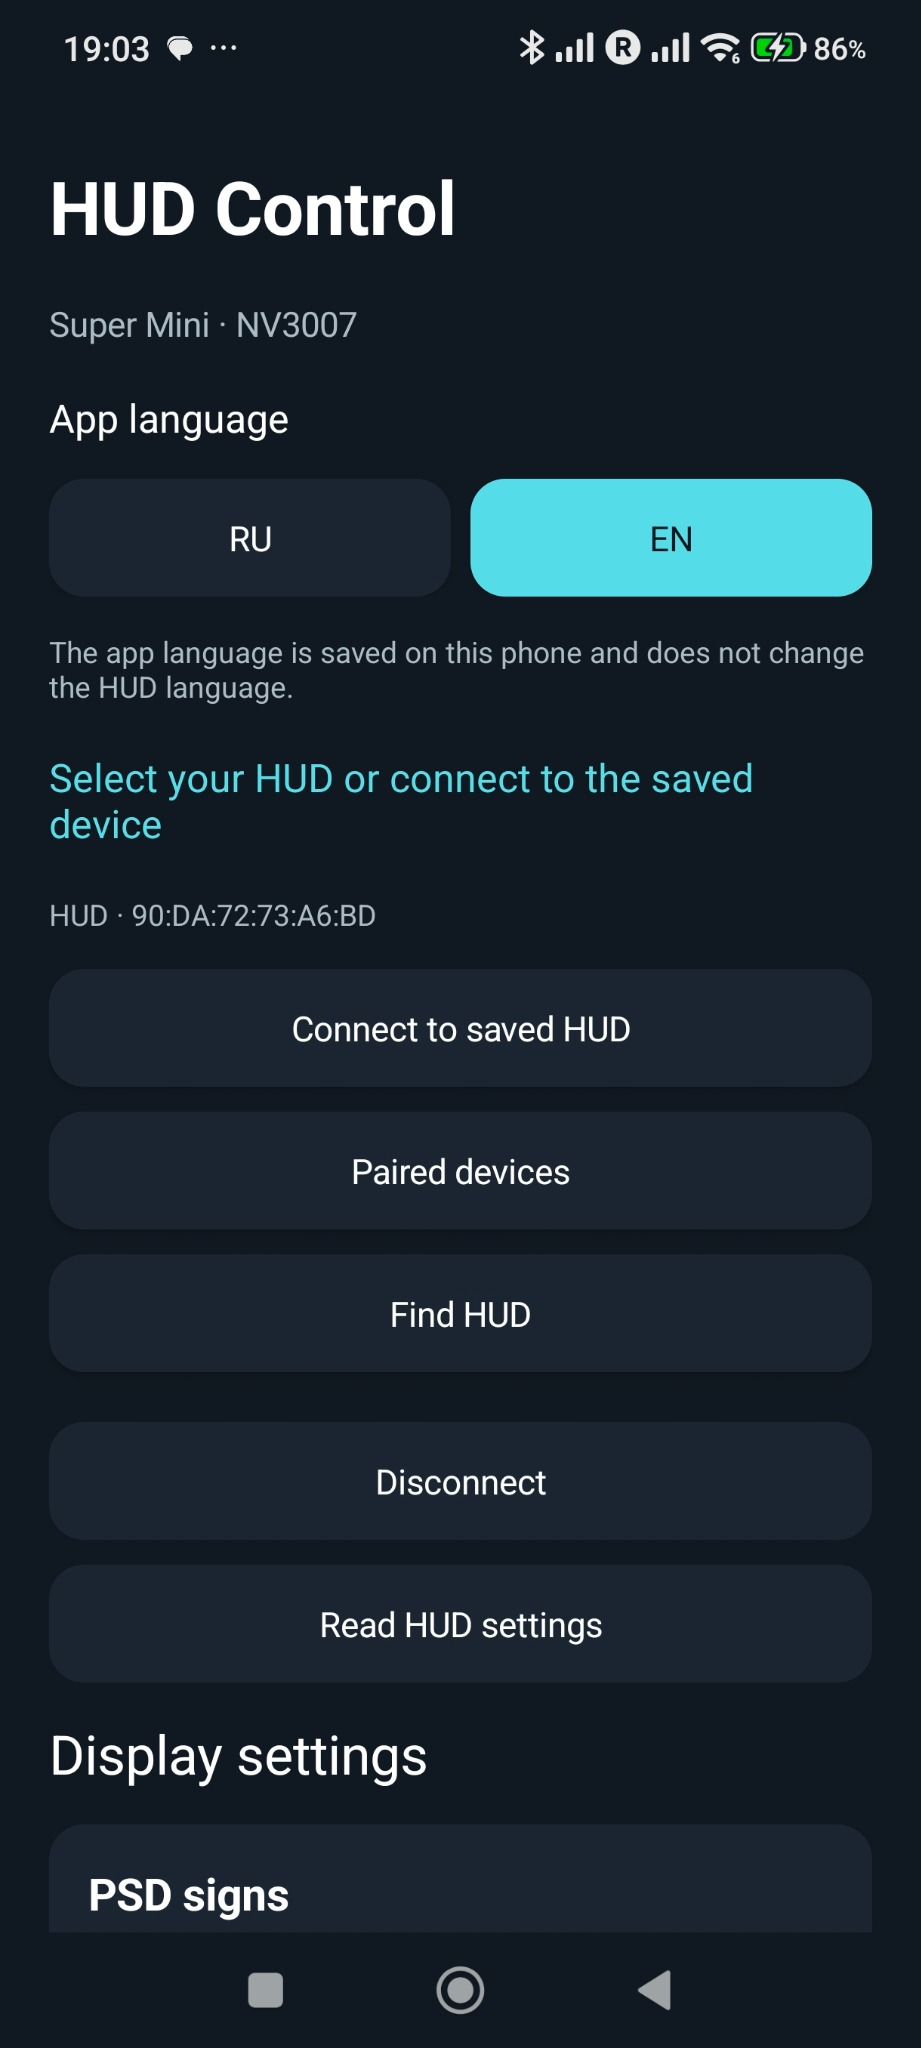
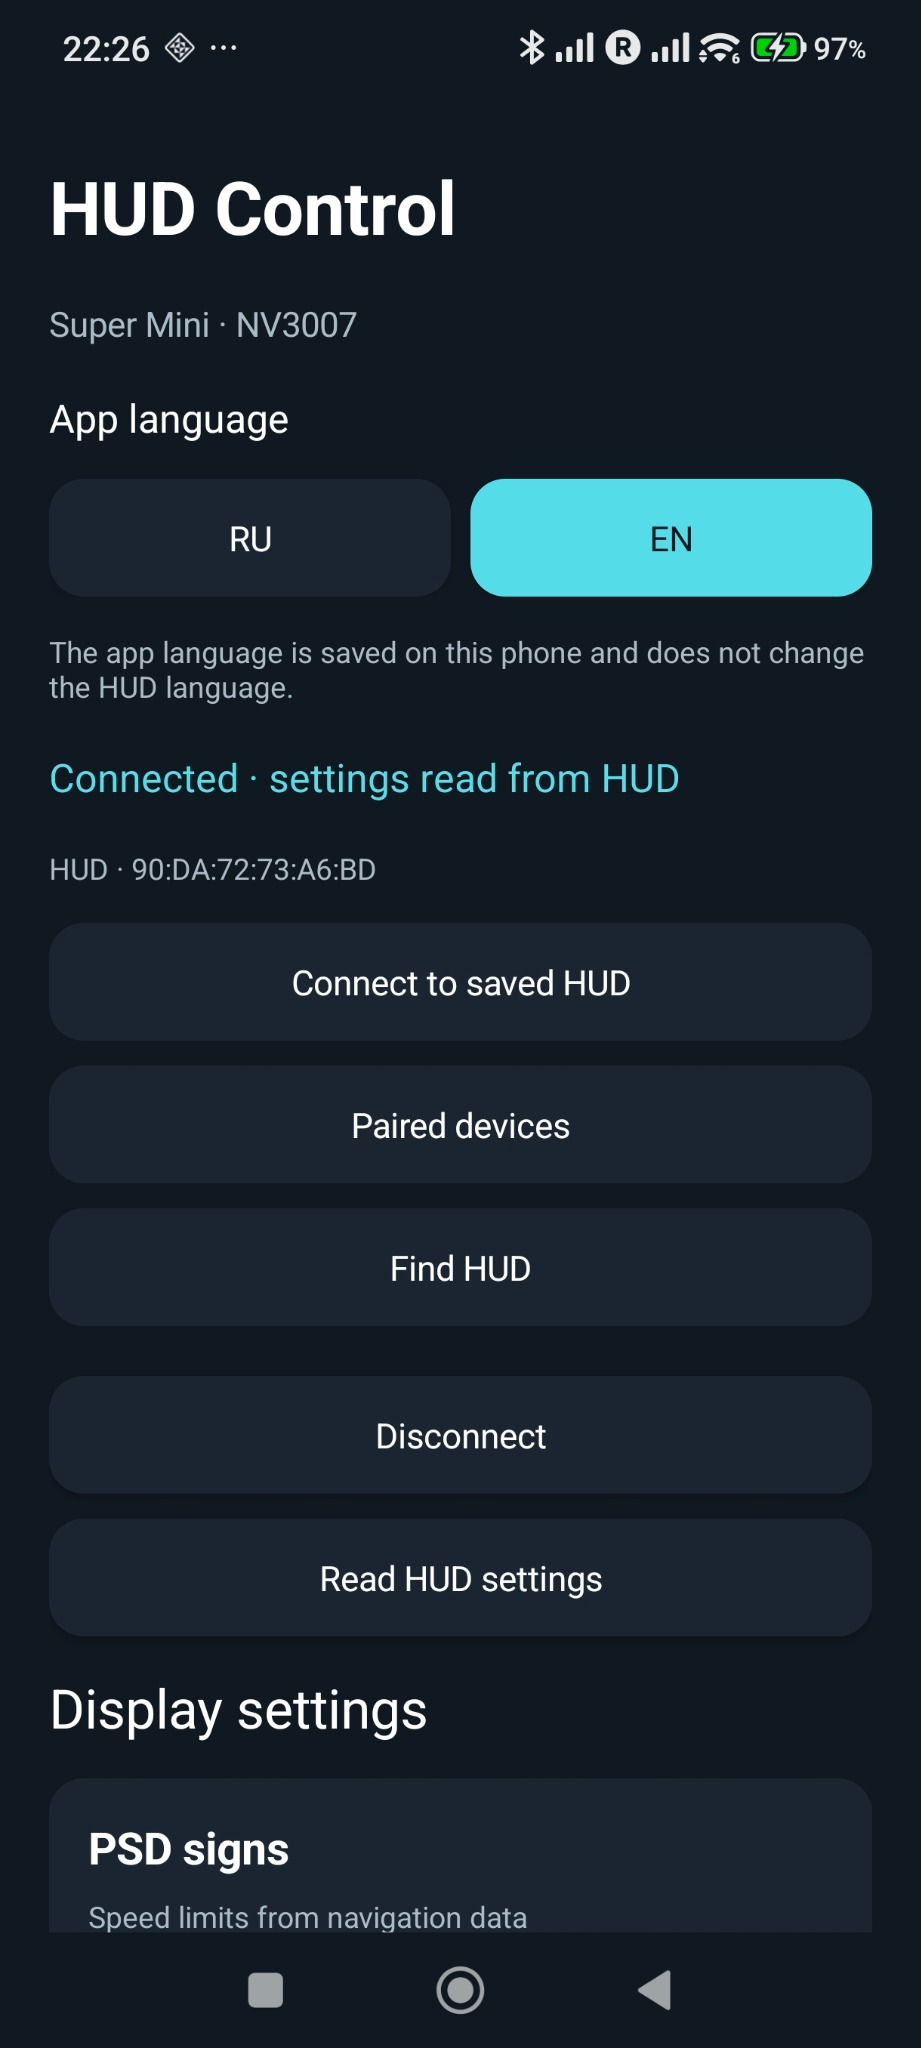
docs: refresh RU/EN screenshots and link Android 1.3 and firmware 29.1 builds

diff --git a/README_ru.md b/README_ru.md
@@ -15,34 +15,34 @@
 - **Толерантность превышения:** **0–100 км/ч**, по умолчанию **20 км/ч**; всегда вводится в км/ч, даже при отображении mph. Красная обводка проявляется от 75% допуска и полностью красная на 100%; при нуле — сразу при превышении.
 - Все три настройки подтверждаются чтением BLE и сохраняются в NVS HUD. Прежние настройки, владелец телефона и ключи шлюза сохраняются. Сброс привязки телефона кнопкой BOOT тоже сохраняет эти значения.
 
-Для новых настроек нужны **приложение 1.3 + прошивка v29.1**. Приложение 1.3 работает и со старой прошивкой: отсутствующие настройки отключены. APK из релиза v1.2 не содержит новых функций; приложение 1.3 нужно пересобрать. Здесь новые бинарники не собирались. Если уже установлена v29.0 с OTA-разделами, v29.1 использует ту же разметку; для более ранних прошивок сначала нужен переход через USB по инструкции ниже.
+Для новых настроек нужны **приложение 1.3 + прошивка v29.1**. Приложение 1.3 работает и со старой прошивкой: отсутствующие настройки отключены. Готовые APK 1.3 и app-BIN v29.1 от WARMW00D опубликованы в Releases; целостность проверена. Если уже установлена v29.0 с OTA-разделами, v29.1 использует ту же разметку; для более ранних прошивок сначала нужен переход через USB по инструкции ниже.
 
 ## Скриншоты приложения
 
-Скриншоты от WARMW00D: показана английская версия интерфейса.
+Скриншоты приложения 1.3 от WARMW00D: русский интерфейс.
 
 <table>
-  <tr>
-    <th>Подключение</th>
-    <th>Настройки дисплея</th>
-    <th>Обновление прошивки</th>
-  </tr>
-  <tr>
-    <td><img src="docs/images/app-connection-en.jpg" alt="HUD Control: выбор языка и подключение BLE" width="280"></td>
-    <td><img src="docs/images/app-settings-en.jpg" alt="HUD Control: PSD, VZE, язык HUD и единицы" width="280"></td>
-    <td><img src="docs/images/app-ota-en.jpg" alt="HUD Control: обновление прошивки по BLE OTA" width="280"></td>
-  </tr>
+  <tr><th>Подключение</th><th>Настройки дисплея</th></tr>
+  <tr><td><img src="docs/images/app-connection-ru.jpg" alt="Подключение" width="280"></td><td><img src="docs/images/app-settings-ru.jpg" alt="Настройки дисплея" width="280"></td></tr>
+  <tr><th>Бак, ускорение, толерантность</th><th>Обновление прошивки</th></tr>
+  <tr><td><img src="docs/images/app-controls-ru.jpg" alt="Бак, ускорение, толерантность" width="280"></td><td><img src="docs/images/app-ota-ru.jpg" alt="Обновление прошивки" width="280"></td></tr>
 </table>
+
+## Скачать прошивку BIN
+
+[Релиз v29.1](https://github.com/WARMW00D/HUD-Audi-A4-B9-MLB-Evo-ESP32-S3-SuperMini-LCD-2.79-NV3007-BLE/releases/tag/v29.1) · [App-BIN](https://github.com/WARMW00D/HUD-Audi-A4-B9-MLB-Evo-ESP32-S3-SuperMini-LCD-2.79-NV3007-BLE/releases/download/v29.1/HUD-SuperMini-v29.1-app.bin) · [SHA-256](https://github.com/WARMW00D/HUD-Audi-A4-B9-MLB-Evo-ESP32-S3-SuperMini-LCD-2.79-NV3007-BLE/releases/download/v29.1/SHA256SUMS.txt).
+
+Образ от WARMW00D, **1 070 448 байт**. Проверены ESP32-S3-заголовок, контрольная сумма и SHA-256. **Только приложение для OTA**: bootloader и таблица разделов не включены. Первая установка — через USB с `partitions.csv` проекта; app-BIN не меняет разметку. Разметка v29.0 с двумя OTA-разделами совместима. Передача OTA на реальном железе здесь ещё не проверена.
 
 ## Скачать APK Android
 
-[Версия 1.2](https://github.com/WARMW00D/HUD-Audi-A4-B9-MLB-Evo-Android-App/releases/tag/v1.2) — **Pre-release**, до проверки OTA на реальных устройствах.
+[Версия 1.3](https://github.com/WARMW00D/HUD-Audi-A4-B9-MLB-Evo-Android-App/releases/tag/v1.3) — **Pre-release**, до проверки OTA на реальных устройствах.
 
-- [Release APK](https://github.com/WARMW00D/HUD-Audi-A4-B9-MLB-Evo-Android-App/releases/download/v1.2/HUD-Control-1.2-release.apk) — подписанная сборка для обычной установки, 55 768 байт.
-- [Debug APK](https://github.com/WARMW00D/HUD-Audi-A4-B9-MLB-Evo-Android-App/releases/download/v1.2/HUD-Control-1.2-debug-test-only.apk) — 61 253 байт; `testOnly=true`, установка: `adb install -t HUD-Control-1.2-debug-test-only.apk`.
-- [Контрольные суммы SHA-256](https://github.com/WARMW00D/HUD-Audi-A4-B9-MLB-Evo-Android-App/releases/download/v1.2/SHA256SUMS.txt).
+- [Release APK](https://github.com/WARMW00D/HUD-Audi-A4-B9-MLB-Evo-Android-App/releases/download/v1.3/HUD-Control-1.3-release.apk) — обычная установка, 59 804 байт.
+- [Debug APK](https://github.com/WARMW00D/HUD-Audi-A4-B9-MLB-Evo-Android-App/releases/download/v1.3/HUD-Control-1.3-debug-test-only.apk) — 65 773 байт; `testOnly=true`: `adb install -r -t HUD-Control-1.3-debug-test-only.apk`.
+- [SHA-256](https://github.com/WARMW00D/HUD-Audi-A4-B9-MLB-Evo-Android-App/releases/download/v1.3/SHA256SUMS.txt).
 
-Обе сборки предоставлены владельцем: версия 1.2 (versionCode 3). Подписи APK v2 и целостность проверены. Release и debug подписаны разными ключами: для смены нужно удалить старое приложение, его локальные настройки будут потеряны. Сохраните ключ release-подписи для будущих обновлений. OTA требует v29.0, впервые установленную через USB с двумя OTA-разделами.
+Сборки от WARMW00D: версия 1.3 (versionCode 4). Подписи APK v2 и целостность проверены. Ключи совпадают с прежними сборками соответствующего типа: release обновляется поверх release, debug поверх debug. Для смены типа требуется удаление приложения с потерей локальных настроек.
 
 ## Возможности
 
@@ -142,7 +142,7 @@ Linux/macOS: с установленным Gradle 8.9 создать Wrapper (`g
 | Сервисы изменились | Переподключиться; при необходимости переключить Bluetooth Android и перезапустить HUD |
 | Не ставится поверх старого APK | Проверить applicationId и ключ подписи |
 
-Пользователь подтвердил работу предыдущей версии приложения настроек. Владелец предоставил подписанные APK v1.2; подписи, целостность, пакет и версия проверены. Здесь APK не пересобирались; результаты lint и проверка OTA на реальном железе ещё требуются. Host-тесты прошивки проверяют протокол и ошибки, но не заменяют Android BLE-тесты. Ключи и форматные параметры RU/EN ресурсов сверены.
+Пользователь подтвердил работу предыдущей версии приложения настроек. Владелец предоставил undefined; подписи, целостность, пакет и версия проверены. Здесь APK не пересобирались; результаты lint и проверка OTA на реальном железе ещё требуются. Host-тесты прошивки проверяют протокол и ошибки, но не заменяют Android BLE-тесты. Ключи и форматные параметры RU/EN ресурсов сверены.
 
 ## Участники и лицензия
 
